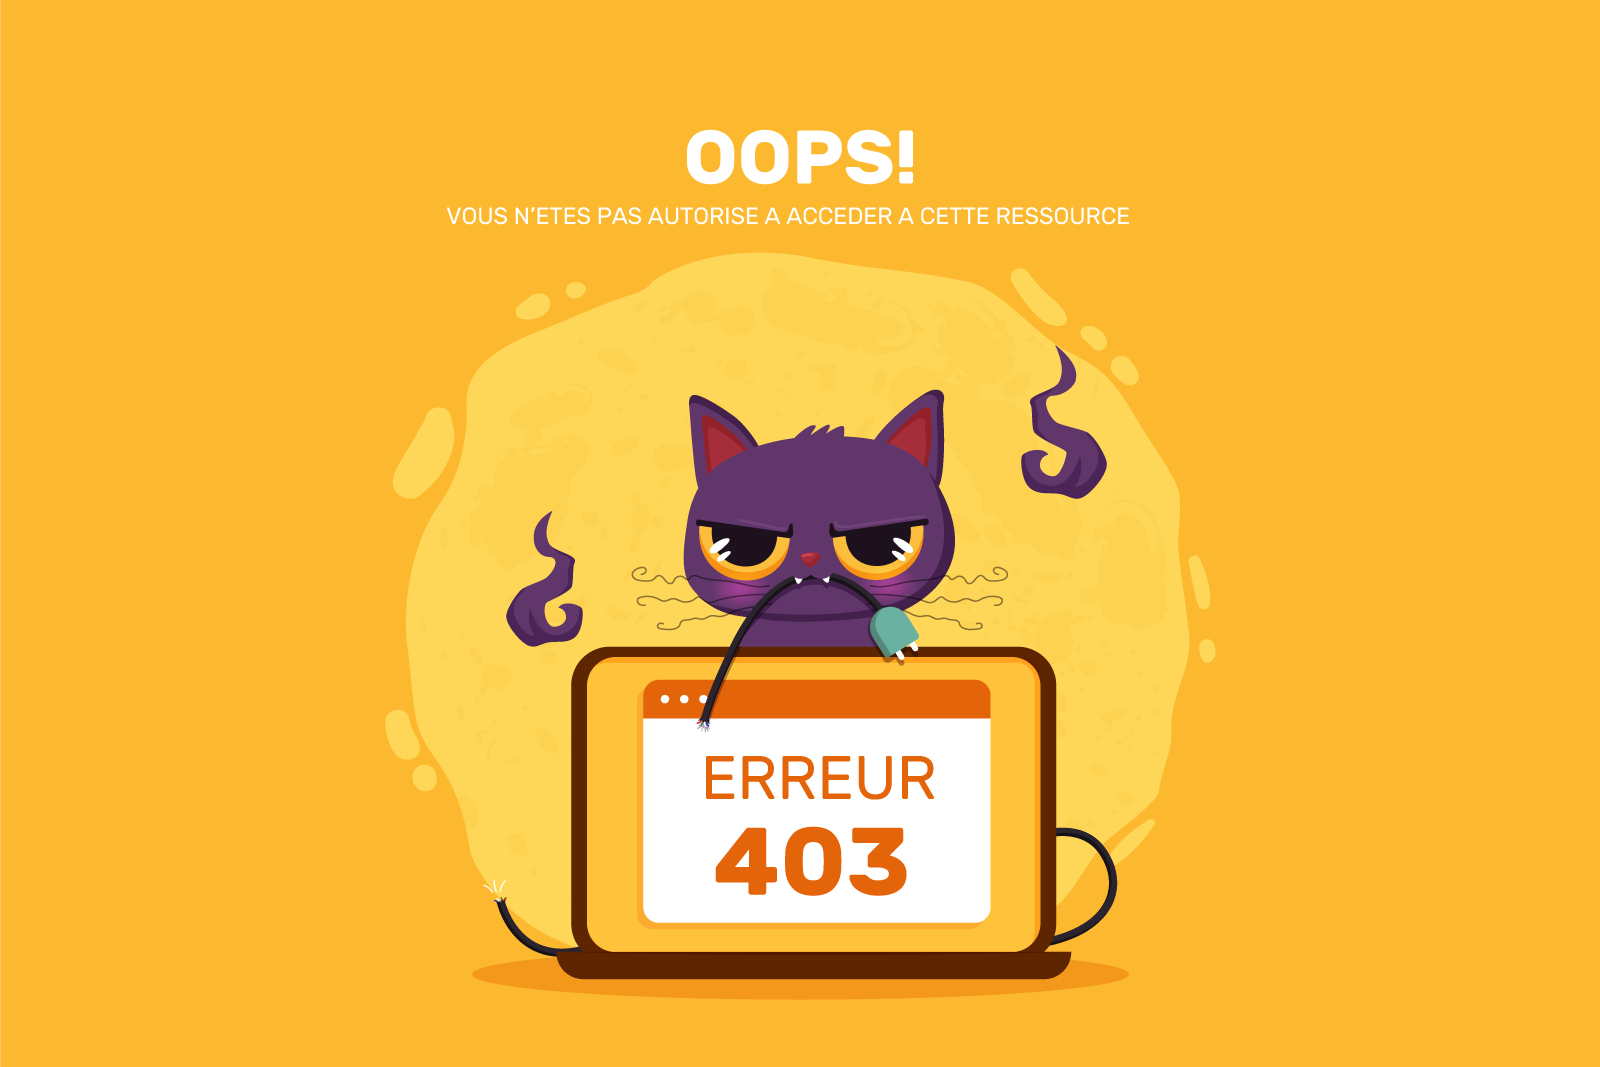
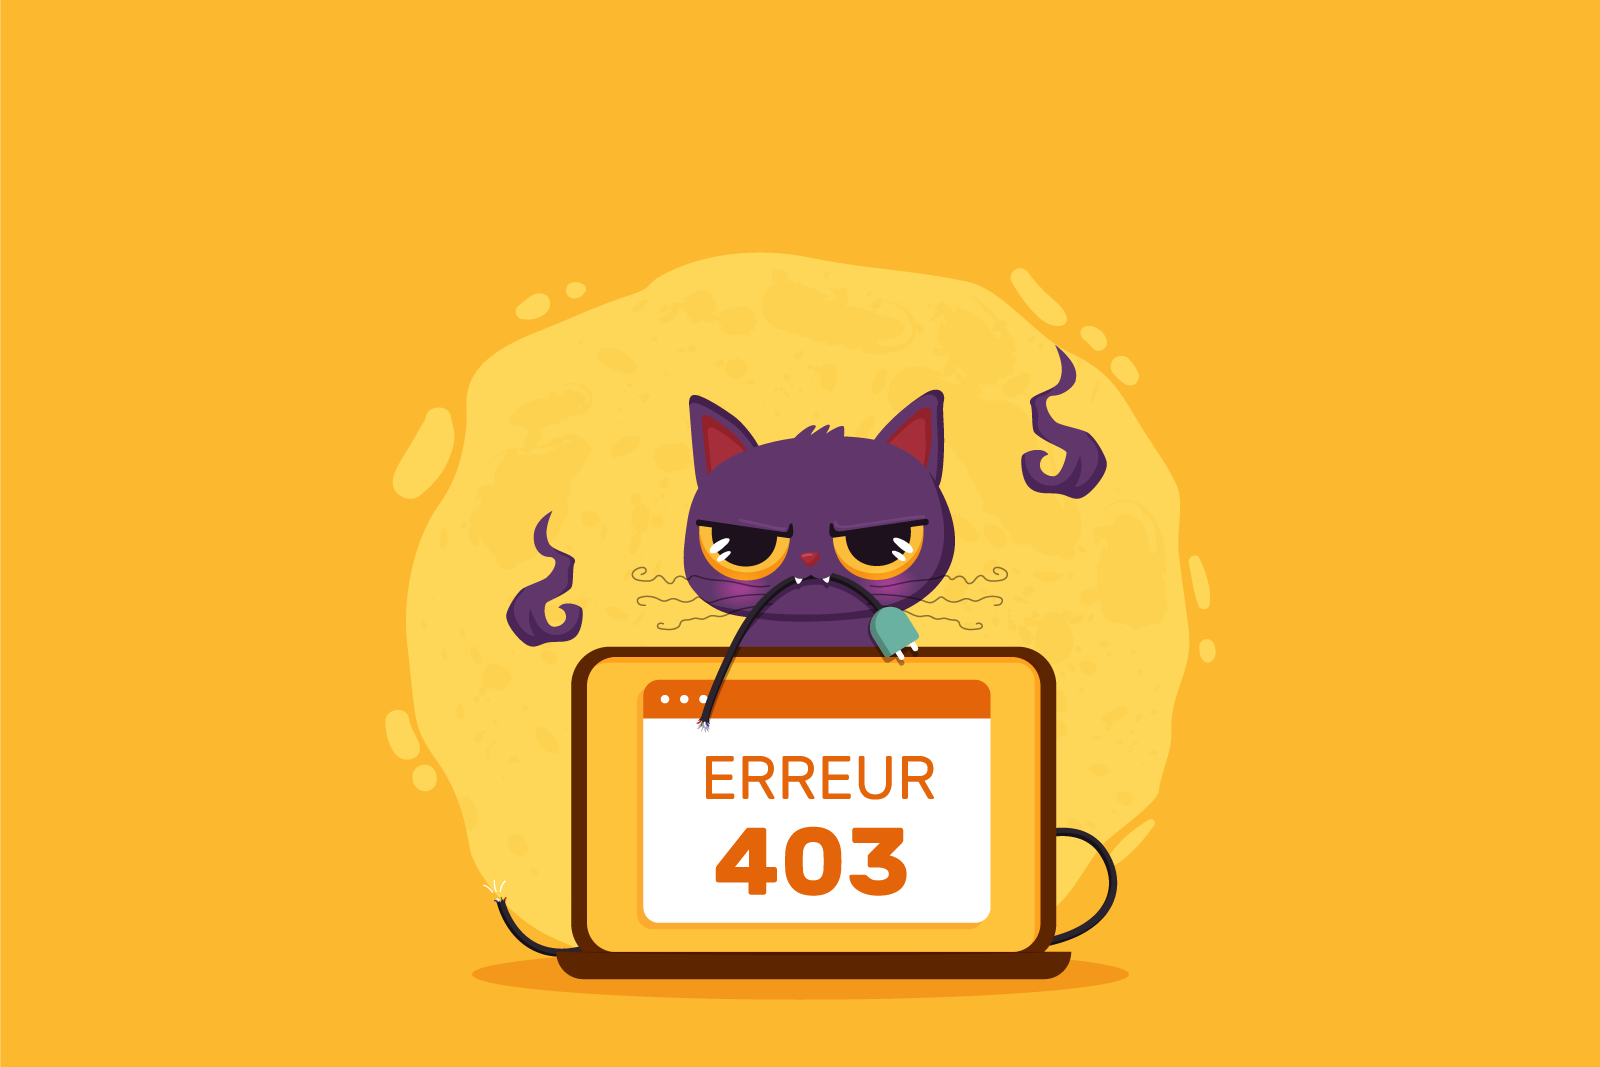
v1-0-2 Améliorations mineures

Changed region(s): [[0.2812, 0.1237, 0.7188, 0.2165]]

diff --git a/public/js/gameMain.js b/public/js/gameMain.js
@@ -957,7 +957,7 @@ $(document).ready(function () {
                                 $('#gameEnd').show(300);
 
                                 $('#gameFinished').append('<span id="msgGameFinished" class="msgVictoire">Bravo, tu as gagné '+$scoreEtoiles+' etoiles au cours de cette partie !"</span><br>');
-                                $('#gameFinished').append('<span id="msgGameFinished" class="msgVictoire">Tu as terminé Color-Drop en '+$dureePartieMinutes+' minutes et '+$dureePartieSecondes+ ' secondes. (soit '+$dureePartie+' secondes au total")</span>');
+                                $('#gameFinished').append('<span id="msgGameFinished" class="msgVictoire">Tu as terminé Color-Drop en '+$dureePartieMinutes+' minutes et '+$dureePartieSecondes+ ' secondes.")</span>');
 
                                 let scoreTotal = $scoreEtoiles;
                                 document.cookie = 'scoreTotal='+scoreTotal+'; path=/; expires=' + date;

diff --git a/resources/views/player/index.blade.php b/resources/views/player/index.blade.php
@@ -40,6 +40,10 @@
         padding-left: 1.5rem !important;
     }
     .pad-1{padding-left: .7rem !important;}
+    .pad-perso {
+        padding-bottom: 0 !important;
+        padding-top: .5rem !important;
+    }
 
 
     /*----------  MARGIN ----------*/
@@ -247,9 +251,6 @@
         vertical-align: middle !important;
         font-size: .9rem !important;
     }
-    table.table2 td:last-child {
-        padding-bottom: 0 !important;
-    }
     table.table1 td:first-child, table.table1 th:first-child{
         padding-left: 4%;
     }
@@ -284,6 +285,7 @@
     .table-striped-perso tbody tr:nth-of-type(3n+1) {
         background-color: rgba(0, 0, 0, 0.05) !important;
     }
+    .va-super{vertical-align: super !important;}
 
     /*----------  CUSTOM RADIO ----------*/
     .custom-radio {
@@ -595,7 +597,7 @@
                         {{-- TBODY --}}
                         <tbody>
                             <tr>
-                                <td>{{ $users->name }}</td>
+                                <td>{{ ucfirst($users->name) }}</td>
                                 <td>{{ $users->email }}</td>
                                 <td class="text-center">{{ $users->newsletter == 1 ? "Oui" : "Non"}}</td>
                                 <td class="text-center text-nowrap">
@@ -642,14 +644,14 @@
                             </thead>
                             <tbody>
                                 <tr class="text-center">
-                                    <td>
+                                    <td class="pad-perso">
                                         <span class="custom-radio">
                                         <input type="radio" id="radio{{$i}}" name="playerId" value="{{$player->id}}"<?= $i==1 ? 'checked' : '' ?> >
                                             <label for="radio{{$i}}"></label>
                                         </span>
                                     </td>
-                                    <td>{{ $player->name }}</td>
-                                    <td>{{ $player->difficulty }}</td>
+                                    <td>{{ ucfirst($player->name) }}</td>
+                                    <td>{{ ucfirst($player->difficulty) }}</td>
                                     <td>{{ $player->nbGames }}</td>
                                     <td>{{ $player->score }}</td>
                                     <td>
@@ -663,16 +665,16 @@
                                 <tr class="line-h-5">
 
                                     <td colspan="6" class="text-nowrap-resp w-100 px-2">
-                                        <div class="text-nowrap d-inline-block w-25 text-center px-2 va-middle">
+                                        <div class="text-nowrap d-inline-block w-25 text-center px-2 va-supper">
                                             <a href="https://project-color.fgainza.fr/presume?id={{$player->id}}&chart=1" class="mb-3 text-nowrap line-h-2-5"><i class="fas fa-chart-line text-info fa-lg mr-2 fz-110r"></i>Resumé</a> &nbsp;
                                         </div>
-                                        <div class="text-nowrap d-inline-block w-25 text-center px-2 va-middle">
+                                        <div class="text-nowrap d-inline-block w-25 text-center px-2 va-supper">
                                             <a href="https://project-color.fgainza.fr/pscore?id={{$player->id}}" class="mb-3 text-nowrap line-h-2-5"><i class="far fa-file-alt text-success mr-2 fz-1r"></i>Détail</a> &nbsp;
                                         </div>
-                                        <div class="text-nowrap d-inline-block w-25 text-center px-2 va-middle">
+                                        <div class="text-nowrap d-inline-block w-25 text-center px-2 va-supper">
                                             <a href="https://project-color.fgainza.fr/pedit?id={{$player->id}}" class="mb-3 text-nowrap line-h-2-5"><i class="far fa-edit text-dark mr-1"></i>Modifier</a> &nbsp;
                                         </div>
-                                        <div class="text-nowrap d-inline-block w-25 text-center px-2 va-middle">
+                                        <div class="text-nowrap d-inline-block w-25 text-center px-2 va-supper">
                                             <a href="https://project-color.fgainza.fr/pdelete?id={{$player->id}}" class="mb-3 text-nowrap line-h-2-5" onclick="return confirm('Confirmez la suppression de cet élément')"><i class="far fa-times-circle text-danger mr-1 fa-lg fz-105r"></i>Supprimer</a>&nbsp;
                                         </div>
                                     </td>

diff --git a/resources/views/players/edit.blade.php b/resources/views/players/edit.blade.php
@@ -43,7 +43,7 @@
                         @csrf
                         <div class="form-group">
                             <label for="">Nom Joueur</label>
-                            <input type="text" name="name" id="name" class="form-control @error('name') is-invalid @enderror" value="{{ old('name', $player->name) }}" placeholder="Saisir le nom">
+                            <input type="text" name="name" id="name" class="form-control @error('name') is-invalid @enderror" value="{{ old('name', ucfirst($player->name)) }}" placeholder="Saisir le nom">
                             @error('name')
                                 <div class="invalid-feedback">{{ $message }}</div>
                             @enderror
@@ -52,9 +52,9 @@
                         <div class="form-group mt-4">
                             <label for="">Nom Parents</label>
                             <div class="select">
-                                <select name="user_id" value="{{ old($player->user_id, $player->user_id) }}" class="custom-select">
+                                <select name="user_id" value="{{ old($player->user_id, $player->user_id) }}" class="custom-select" selected>
                                     @foreach($users as $user)
-                                        <option value="{{ $user->id }}">{{ $user->name }}</option>
+                                        <option value="{{ $user->id }}" <?= $player->user_id == $user->id ? "selected" : ""; ?>>{{ ucfirst($user->name) }}</option>
                                     @endforeach
                                 </select>
                             </div>

diff --git a/resources/views/users/show.blade.php b/resources/views/users/show.blade.php
@@ -27,7 +27,7 @@
             </div>
             <div class="card-body">
                 <ul class="list-unstyled">
-                    <li class="mt-3"><b>Nom</b> :  {{ $user->name }}</li>
+                    <li class="mt-3"><b>Nom</b> :  {{ ucfirst($user->name) }}</li>
                     <hr>
                     <li class="mt-3"><b>Adresse mail</b> :  {{ $user->email }}</li>
                     <hr>
@@ -42,7 +42,7 @@
                                 @php
                                     $playerId = $player->id;
                                 @endphp
-                                <li><a href="/players/{{ $player->id}}">{{ $player->name}}</a></li>
+                                <li><a href="/players/{{ $player->id}}">{{ ucfirst($player->name) }}</a></li>
                             @endforeach
                         @endif
                     </ul>

diff --git a/resources/views/errors/minimal.blade.php b/resources/views/errors/minimal.blade.php
@@ -49,16 +49,17 @@
     }
 
     .code {
-        border-right: 2px solid;
-        font-size: 26px;
-        padding: 0 15px 0 15px;
+        font-size: 1.8vw;
+        padding: 10px 15px 10px 15px;
         text-align: center;
     }
 
     .message {
-        font-size: 18px;
+        font-size: 1.8vw;
         text-align: center;
     }
+
+    .fz-150{margin-left: 0 !important;}
 </style>
  @yield('scripts-header')
 </head>
@@ -124,11 +125,11 @@
         </nav>
 
         <div class="flex-center mt-2">
-            <div class="code">
+            <div class="code color-msg">
                 @yield('code')
             </div>
 
-            <div class="message" style="padding: 10px;">
+            <div class="message color-msg" style="padding: 10px;">
                 @yield('message')
             </div>
         </div>

diff --git a/resources/views/users/edit.blade.php b/resources/views/users/edit.blade.php
@@ -44,7 +44,7 @@
 
             <div class="form-group">
                 <label for="name">Nom</label>
-                <input type="text" name="name" id="name" class="form-control @error('name') is-invalid @enderror" value="{{ old('name', $user->name) }}" placeholder="Saisir le nom">
+                <input type="text" name="name" id="name" class="form-control @error('name') is-invalid @enderror" value="{{ old('name', ucfirst($user->name)) }}" placeholder="Saisir le nom">
                 @error('name')
                     <div class="invalid-feedback">{{ $message }}</div>
                 @enderror

diff --git a/resources/views/welcome.blade.php b/resources/views/welcome.blade.php
@@ -1,6 +1,17 @@
 <!DOCTYPE html>
 <html lang="fr">
 <head>
+
+    <!-- Global site tag (gtag.js) - Google Analytics -->
+    <script async src="https://www.googletagmanager.com/gtag/js?id=UA-160287169-1"></script>
+    <script>
+    window.dataLayer = window.dataLayer || [];
+    function gtag(){dataLayer.push(arguments);}
+    gtag('js', new Date());
+
+    gtag('config', 'UA-160287169-1');
+    </script>
+
     <meta charset="UTF-8">
     <meta name="viewport" content="width=device-width, initial-scale=1.0">
     <meta http-equiv="X-UA-Compatible" content="ie=edge">

diff --git a/resources/views/layouts/app.blade.php b/resources/views/layouts/app.blade.php
@@ -1,6 +1,17 @@
 <!doctype html>
 <html lang="{{ str_replace('_', '-', app()->getLocale()) }}">
 <head>
+
+    <!-- Global site tag (gtag.js) - Google Analytics -->
+    <script async src="https://www.googletagmanager.com/gtag/js?id=UA-160287169-1"></script>
+    <script>
+    window.dataLayer = window.dataLayer || [];
+    function gtag(){dataLayer.push(arguments);}
+    gtag('js', new Date());
+
+    gtag('config', 'UA-160287169-1');
+    </script>
+
     <meta charset="utf-8">
     <meta name="viewport" content="width=device-width, initial-scale=1">
 

diff --git a/resources/views/layouts/parents.blade.php b/resources/views/layouts/parents.blade.php
@@ -1,6 +1,17 @@
 <!doctype html>
 <html lang="{{ str_replace('_', '-', app()->getLocale()) }}">
 <head>
+
+    <!-- Global site tag (gtag.js) - Google Analytics -->
+    <script async src="https://www.googletagmanager.com/gtag/js?id=UA-160287169-1"></script>
+    <script>
+    window.dataLayer = window.dataLayer || [];
+    function gtag(){dataLayer.push(arguments);}
+    gtag('js', new Date());
+
+    gtag('config', 'UA-160287169-1');
+    </script>
+
     <meta charset="utf-8">
     <meta name="viewport" content="width=device-width, initial-scale=1">
 

diff --git a/resources/views/players/show.blade.php b/resources/views/players/show.blade.php
@@ -27,7 +27,7 @@
                 </div>
                 <div class="card-body">
                     <ul class="list-unstyled">
-                        <li class="mt-3"><b>Nom</b> :  {{ $player->name }}</li>
+                        <li class="mt-3"><b>Nom</b> :  {{ ucfirst($player->name) }}</li>
                         <hr>
                         <li class="mt-3"><b>Difficulté</b> :  {{ ucfirst($player->difficulty) }}</li>
                         <hr>

diff --git a/resources/views/users/index.blade.php b/resources/views/users/index.blade.php
@@ -69,7 +69,7 @@
                 @foreach($users as $user)
                 <tr>
                     <td>{{ $user->id }}</td>
-                    <td>{{ $user->name }}</td>
+                    <td>{{ ucfirst($user->name) }}</td>
                     <td>{{ $user->email }}</td>
                     <td><?= $user->message2players == 1 ? "oui" : "non"; ?></td>
                     <td><?= $user->newsletter == 1 ? "oui" : "non"; ?></td>

diff --git a/resources/views/errors/403.blade.php b/resources/views/errors/403.blade.php
@@ -13,8 +13,14 @@
     .bg-opacite {
         background-color: ##fdd250a3 !important;
     }
+    .color-msg{
+        color: #f7f8f8 !important;
+        background-color: #fcb82f !important;
+    }
+
     </style>
 @endsection
 @section('title', 'Interdit')
 @section('code', '403')
+@section('message', 'Vous n\'êtes pas autorisé à accéder à cette ressource')
 
